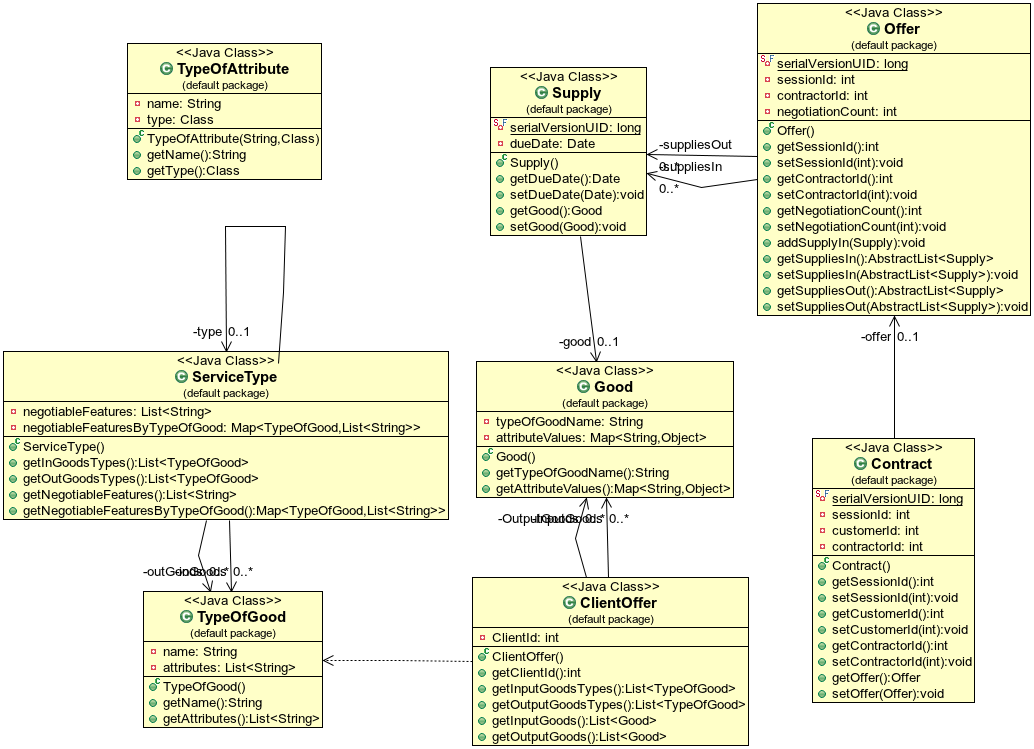
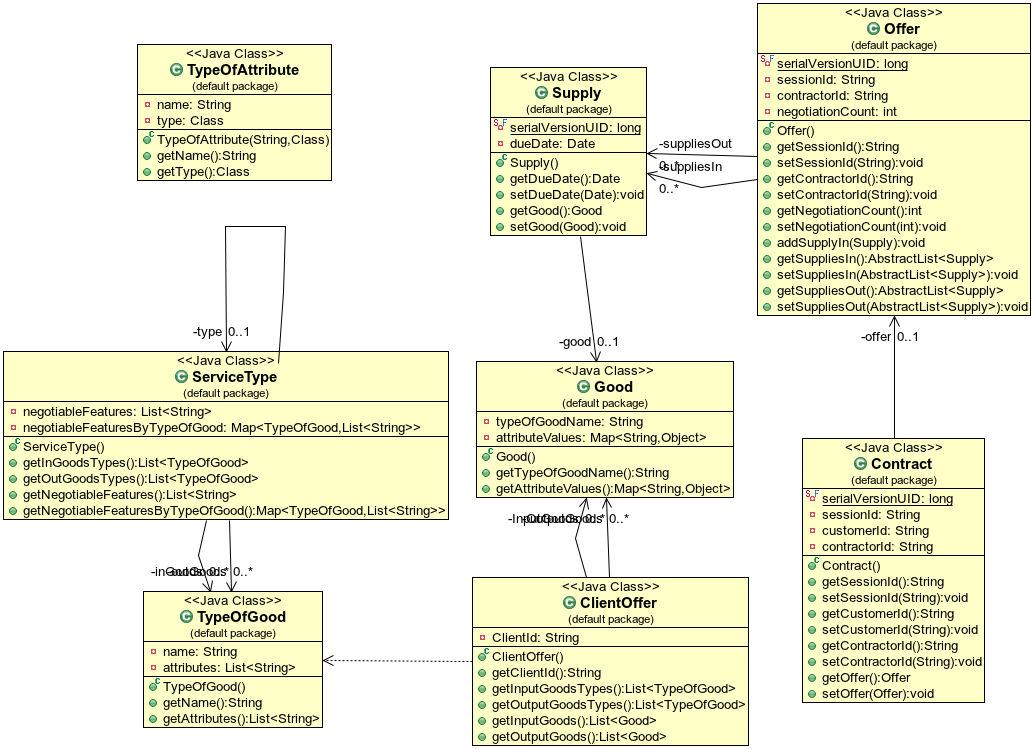
Changed type of IDs to String.

diff --git a/ztis_uml/src/Contract.java b/ztis_uml/src/Contract.java
@@ -10,36 +10,36 @@ public class Contract implements Serializable {
 	 * 
 	 */
 	private static final long serialVersionUID = 1L;
-	private int sessionId;
-	private int customerId;
-	private int contractorId;
+	private String sessionId;
+	private String customerId;
+	private String contractorId;
 	private Offer offer;
 
 	public Contract() {
 
 	}
 
-	public int getSessionId() {
+	public String getSessionId() {
 		return sessionId;
 	}
 
-	public void setSessionId(int sessionId) {
+	public void setSessionId(String sessionId) {
 		this.sessionId = sessionId;
 	}
 
-	public int getCustomerId() {
+	public String getCustomerId() {
 		return customerId;
 	}
 
-	public void setCustomerId(int customerId) {
+	public void setCustomerId(String customerId) {
 		this.customerId = customerId;
 	}
 
-	public int getContractorId() {
+	public String getContractorId() {
 		return contractorId;
 	}
 
-	public void setContractorId(int contractorId) {
+	public void setContractorId(String contractorId) {
 		this.contractorId = contractorId;
 	}
 

diff --git a/ztis_uml/src/Offer.java b/ztis_uml/src/Offer.java
@@ -11,8 +11,8 @@ public class Offer implements Serializable {
 	 * 
 	 */
 	private static final long serialVersionUID = 1L;
-	private int sessionId;
-	private int contractorId;
+	private String sessionId;
+	private String contractorId;
 	private int negotiationCount;
 	private AbstractList<Supply> suppliesIn;
 	private AbstractList<Supply> suppliesOut;
@@ -21,19 +21,19 @@ public class Offer implements Serializable {
 
 	}
 
-	public int getSessionId() {
+	public String getSessionId() {
 		return this.sessionId;
 	}
 	
-	public void setSessionId(int sessionId) {
+	public void setSessionId(String sessionId) {
 		this.sessionId = sessionId;
 	}
 
-	public int getContractorId() {
+	public String getContractorId() {
 		return contractorId;
 	}
 
-	public void setContractorId(int contractorId) {
+	public void setContractorId(String contractorId) {
 		this.contractorId = contractorId;
 	}
 

diff --git a/ztis_uml/src/ClientOffer.java b/ztis_uml/src/ClientOffer.java
@@ -1,28 +1,28 @@
 import java.util.List;
 
 public class ClientOffer {
-	private int ClientId;
+	private String ClientId;
 	private List<Good> InputGoods;
 	private List<Good> OutputGoods;
 
 	public ClientOffer() {
 		super();
 	}
-	
-	public int getClientId() {
+
+	public String getClientId() {
 		return ClientId;
 	}
 
 	public List<TypeOfGood> getInputGoodsTypes() {
-		//TODO
+		// TODO
 		return null;
 	}
 
 	public List<TypeOfGood> getOutputGoodsTypes() {
-		//TODO
+		// TODO
 		return null;
 	}
-	
+
 	public List<Good> getInputGoods() {
 		return InputGoods;
 	}

diff --git a/ztis_uml/src/Service.java b/ztis_uml/src/Service.java
@@ -1,20 +1,15 @@
-import java.util.List;
-import java.util.Map;
 
+
+import java.util.Map;
 
 public class Service {
 
-    private ServiceType type;
+	private ServiceType type;
 
-    private Map<String, Object> requiredFeaturesByNames;
+	private Map<String, Object> requiredFeaturesByNames;
 
-    public Map<String, Object> getRequiredFeaturesByNames() {
-        return requiredFeaturesByNames;
-    }
-
-
-
-
-
+	public Map<String, Object> getRequiredFeaturesByNames() {
+		return requiredFeaturesByNames;
+	}
 
 }

diff --git a/ztis_uml/src/TypeOfGood.java b/ztis_uml/src/TypeOfGood.java
@@ -1,3 +1,5 @@
+
+
 import java.util.List;
 
 /**
@@ -5,14 +7,14 @@ import java.util.List;
  */
 public class TypeOfGood {
 
-   private String name;
-   private List<String> attributes;
+	private String name;
+	private List<String> attributes;
 
-   public String getName() {
-      return name;
-   }
+	public String getName() {
+		return name;
+	}
 
-   public List<String> getAttributes() {
-      return attributes;
-   }
+	public List<String> getAttributes() {
+		return attributes;
+	}
 }
